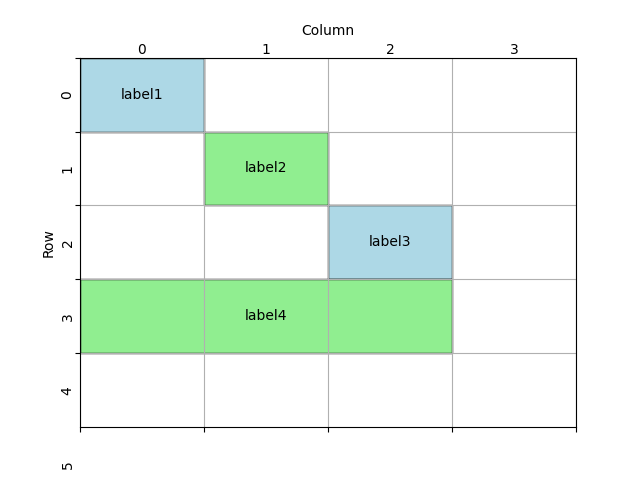
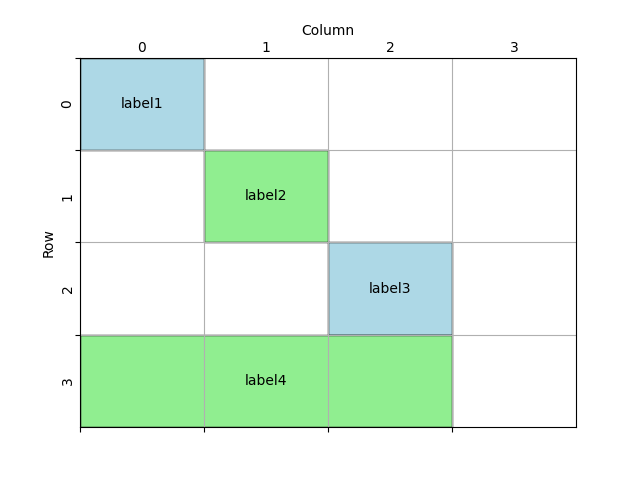
gg

diff --git a/docs/tk_geometry/python/tk_grid_grid.py b/docs/tk_geometry/python/tk_grid_grid.py
@@ -6,16 +6,16 @@ fig, ax = plt.subplots()
 
 # Set the limits and grid size
 ax.set_xlim(0, 4)  # Number of columns
-ax.set_ylim(0, 5)  # Number of rows
+ax.set_ylim(0, 4)  # Number of rows
 
 # Set ticks at the edges (for grid lines)
-ax.set_xticks(range(5))  # At 0, 1, 2, 3, 4 (edges)
-ax.set_yticks(range(5))  # At 0, 1, 2, 3, 4 (edges)
+ax.set_xticks(range(4))  # At 0, 1, 2, 3, 4 (edges)
+ax.set_yticks(range(4))  # At 0, 1, 2, 3, 4 (edges)
 
 # Set the tick labels (offset manually)
 for i in range(4):
     ax.text(i + 0.5, -0.1, str(i), ha='center', va='center', transform=ax.transData)  # X labels
-for j in range(7):
+for j in range(4):
     ax.text(-0.1, j + 0.5, str(j), ha='center', va='center', transform=ax.transData, rotation=90)  # Y labels
 
 # Add grid lines
